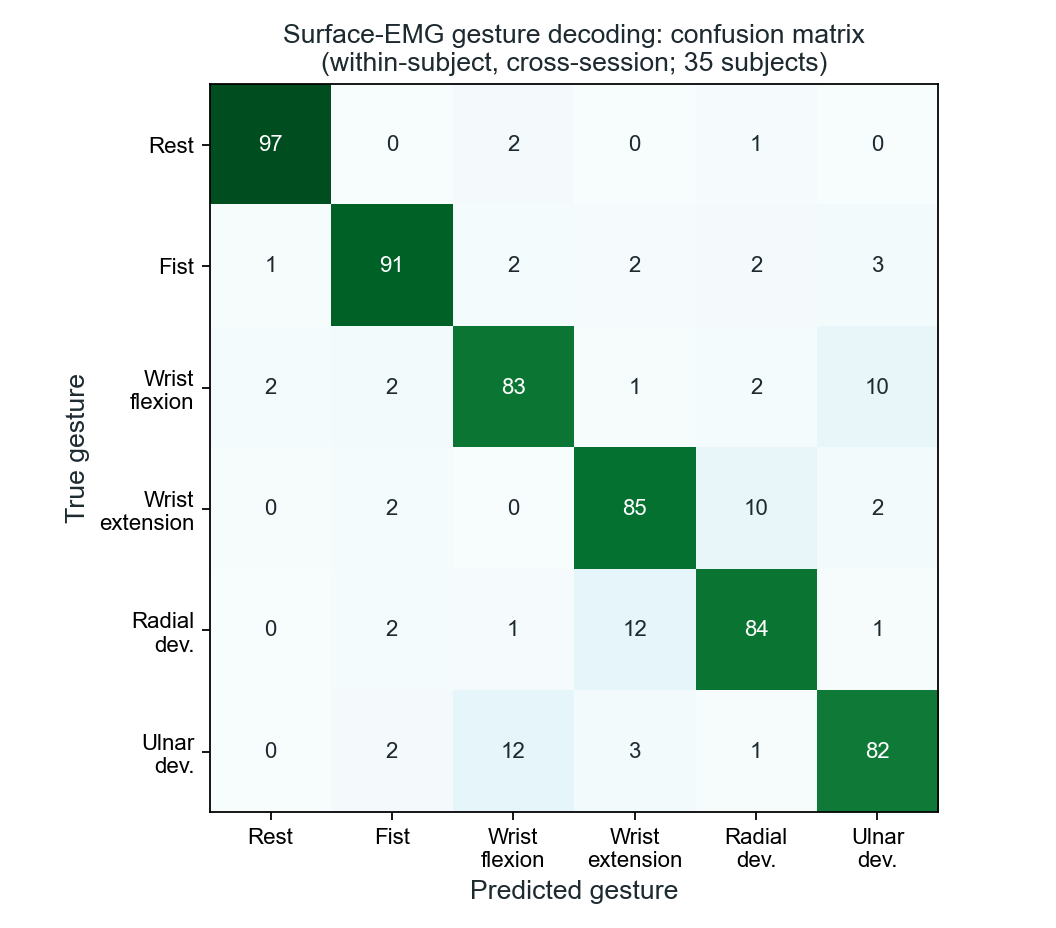
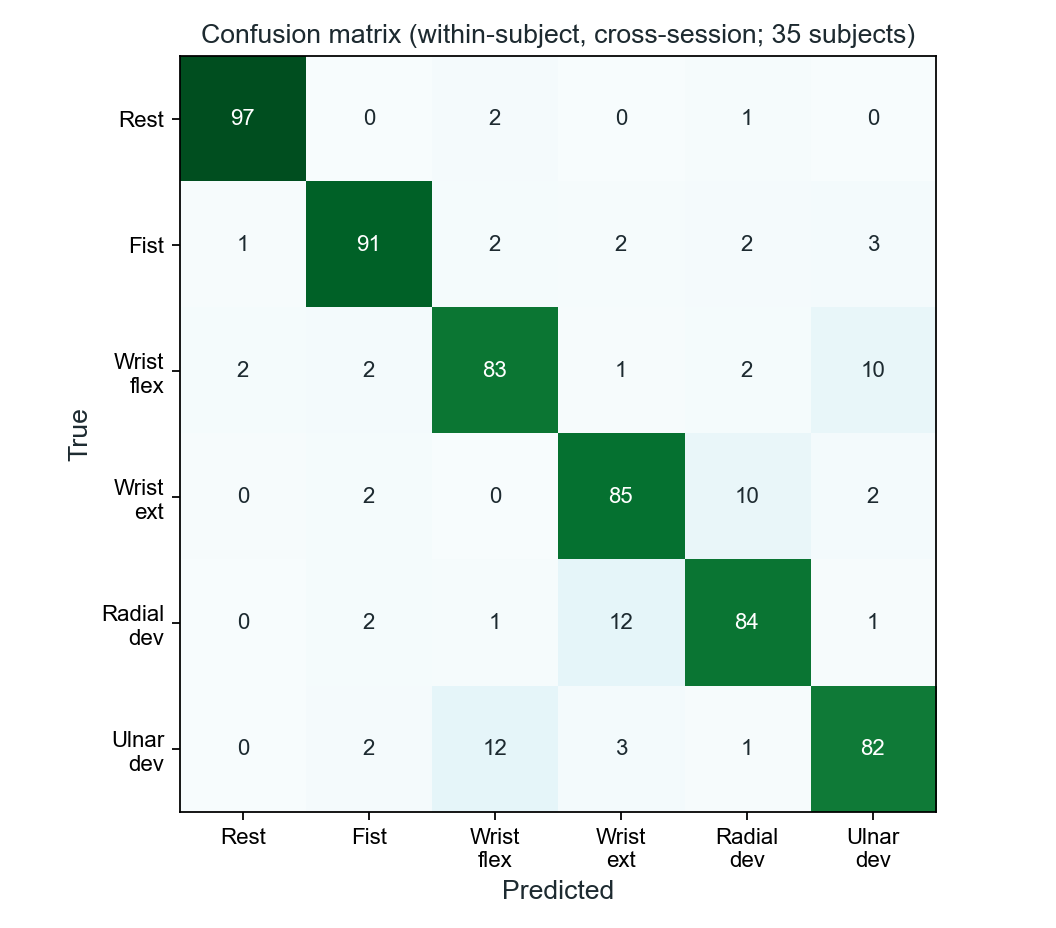
Add research-grade evaluation (LDA baseline, cross-subject generalization, latency-accuracy sweep, temporal smoothing); README polish

diff --git a/emg_research.py b/emg_research.py
@@ -1,0 +1,178 @@
+import os, glob, json, time, numpy as np
+from sklearn.ensemble import RandomForestClassifier
+from sklearn.discriminant_analysis import LinearDiscriminantAnalysis
+from sklearn.metrics import accuracy_score, confusion_matrix, precision_recall_fscore_support
+import matplotlib; matplotlib.use("Agg")
+import matplotlib.pyplot as plt
+from matplotlib import font_manager
+try:
+    font_manager.fontManager.addfont(r"C:\Windows\Fonts\arial.ttf"); plt.rcParams["font.family"] = "Arial"
+except Exception: pass
+
+ROOT = r"C:\Users\afric\emg_decoding\data\EMG_data_for_gestures-master"
+OUT  = r"C:\Users\afric\emg_decoding"
+INK, TEAL, AMBER, GREY = "#1d2a30", "#0d7a6f", "#c98a0d", "#9aa3a8"
+CLASSES = [1, 2, 3, 4, 5, 6]
+NAMES = {1: "Rest", 2: "Fist", 3: "Wrist\nflex", 4: "Wrist\next", 5: "Radial\ndev", 6: "Ulnar\ndev"}
+
+def feats(win):
+    f = []
+    for c in range(win.shape[1]):
+        x = win[:, c]; d = np.diff(x)
+        f += [np.mean(np.abs(x)), np.sqrt(np.mean(x**2)), np.sum(np.abs(d)),
+              int(np.sum(x[:-1]*x[1:] < 0)), int(np.sum(d[:-1]*d[1:] < 0))]
+    return f
+
+def load(path):
+    try: data = np.loadtxt(path, skiprows=1)
+    except Exception: return None
+    if data.ndim != 2 or data.shape[1] < 10: return None
+    return data
+
+def windows(data, W, S):
+    ch, cls = data[:, 1:9], data[:, 9].astype(int)
+    X, y, seg = [], [], []; i, n, sid = 0, len(cls), 0
+    while i < n:
+        c, j = cls[i], i
+        while j < n and cls[j] == c: j += 1
+        if c in CLASSES and (j - i) >= W:
+            s = ch[i:j]
+            for k in range(0, len(s) - W + 1, S):
+                X.append(feats(s[k:k+W])); y.append(c); seg.append(sid)
+            sid += 1
+        i = j
+    return np.array(X, float), np.array(y, int), np.array(seg, int)
+
+subjects = sorted(d for d in os.listdir(ROOT) if os.path.isdir(os.path.join(ROOT, d)))
+FS = 200.0
+print(f"sampling rate {FS:.0f} Hz; subjects={len(subjects)}")
+W, S = 40, 20
+
+res = {"RF": [], "LDA": []}; cm_true, cm_pred = [], []; sm_base, sm_smooth = [], []
+t0 = time.time()
+for sub in subjects:
+    fs = sorted(glob.glob(os.path.join(ROOT, sub, "*.txt")))
+    if len(fs) < 2: continue
+    d1, d2 = load(fs[0]), load(fs[1])
+    if d1 is None or d2 is None: continue
+    Xtr, ytr, _ = windows(d1, W, S); Xte, yte, seg = windows(d2, W, S)
+    if len(set(ytr)) < 2 or len(Xte) == 0: continue
+    for name, clf in [("RF", RandomForestClassifier(n_estimators=200, n_jobs=-1, random_state=42)),
+                      ("LDA", LinearDiscriminantAnalysis())]:
+        clf.fit(Xtr, ytr); pred = clf.predict(Xte)
+        res[name].append(accuracy_score(yte, pred))
+        if name == "RF":
+            cm_true += list(yte); cm_pred += list(pred)
+            sm = pred.copy()
+            for sid in np.unique(seg):
+                idx = np.where(seg == sid)[0]; p = pred[idx]
+                for a in range(len(p)):
+                    lo, hi = max(0, a-2), min(len(p), a+3)
+                    v, c = np.unique(p[lo:hi], return_counts=True); sm[idx[a]] = v[np.argmax(c)]
+            sm_base.append(accuracy_score(yte, pred)); sm_smooth.append(accuracy_score(yte, sm))
+rf = np.array(res["RF"]); lda = np.array(res["LDA"])
+print(f"[1] within-subject done {time.time()-t0:.0f}s  RF={rf.mean()*100:.1f}%  LDA={lda.mean()*100:.1f}%")
+
+def pool(subs):
+    X, y = [], []
+    for sub in subs:
+        for f in sorted(glob.glob(os.path.join(ROOT, sub, "*.txt"))):
+            d = load(f)
+            if d is None: continue
+            Xi, yi, _ = windows(d, W, S)
+            if len(Xi): X.append(Xi); y.append(yi)
+    return np.vstack(X), np.concatenate(y)
+cut = (len(subjects) * 2) // 3
+tr_s, te_s = subjects[:cut], subjects[cut:]
+Xtr, ytr = pool(tr_s); Xte, yte = pool(te_s)
+clf = RandomForestClassifier(n_estimators=150, n_jobs=-1, random_state=42); clf.fit(Xtr, ytr)
+xsub = accuracy_score(yte, clf.predict(Xte))
+print(f"[2] cross-subject train={len(tr_s)} test={len(te_s)} subj: {xsub*100:.1f}%")
+
+sweep_W = [20, 40, 60, 80, 120, 160, 200]; sweep_subj = subjects[:10]; sweep = []
+for w in sweep_W:
+    a = []
+    for sub in sweep_subj:
+        fs = sorted(glob.glob(os.path.join(ROOT, sub, "*.txt")))
+        if len(fs) < 2: continue
+        d1, d2 = load(fs[0]), load(fs[1])
+        Xtr, ytr, _ = windows(d1, w, max(1, w//2)); Xte, yte, _ = windows(d2, w, max(1, w//2))
+        if len(set(ytr)) < 2 or len(Xte) == 0: continue
+        clf = RandomForestClassifier(n_estimators=120, n_jobs=-1, random_state=42); clf.fit(Xtr, ytr)
+        a.append(accuracy_score(yte, clf.predict(Xte)))
+    sweep.append(np.mean(a)); print(f"    win {w} ({w/FS*1000:.0f} ms): {np.mean(a)*100:.1f}%")
+
+P, R, F, _ = precision_recall_fscore_support(cm_true, cm_pred, labels=CLASSES, zero_division=0)
+
+summary = {
+    "within_RF_mean": float(rf.mean()*100), "within_RF_std": float(rf.std()*100), "n": int(len(rf)),
+    "within_LDA_mean": float(lda.mean()*100), "cross_subject": float(xsub*100),
+    "smooth_base": float(np.mean(sm_base)*100), "smooth_after": float(np.mean(sm_smooth)*100),
+    "sweep_ms": [round(w/FS*1000) for w in sweep_W], "sweep_acc": [float(a*100) for a in sweep],
+    "fs": round(FS), "per_gesture_F1": {NAMES[c].replace(chr(10), " "): float(f*100) for c, f in zip(CLASSES, F)},
+}
+json.dump(summary, open(os.path.join(OUT, "emg_results.json"), "w"), indent=2)
+print("\n==================== SUMMARY ====================")
+print(f"Within-subject (cross-session)  RF : {rf.mean()*100:.1f}% +/- {rf.std()*100:.1f}%  (n={len(rf)})")
+print(f"Within-subject (cross-session)  LDA: {lda.mean()*100:.1f}%")
+print(f"Cross-subject (leave-subjects-out) : {xsub*100:.1f}%")
+print(f"Temporal smoothing                 : {np.mean(sm_base)*100:.1f}% -> {np.mean(sm_smooth)*100:.1f}%")
+print(f"Chance (6 classes)                 : {100/6:.1f}%")
+for c, p, r, f in zip(CLASSES, P, R, F):
+    print(f"   {NAMES[c].replace(chr(10),' '):12s} P={p*100:4.0f} R={r*100:4.0f} F1={f*100:4.0f}")
+
+cm = confusion_matrix(cm_true, cm_pred, labels=CLASSES).astype(float)
+cmn = cm / cm.sum(axis=1, keepdims=True)
+labels = [NAMES[c] for c in CLASSES]
+fig, ax = plt.subplots(figsize=(6.6, 5.8), dpi=160); fig.patch.set_facecolor("white")
+ax.imshow(cmn, cmap="BuGn", vmin=0, vmax=1)
+ax.set_xticks(range(6)); ax.set_yticks(range(6))
+ax.set_xticklabels(labels, fontsize=10); ax.set_yticklabels(labels, fontsize=10)
+ax.set_xlabel("Predicted", fontsize=12, color=INK); ax.set_ylabel("True", fontsize=12, color=INK)
+ax.set_title(f"Confusion matrix (within-subject, cross-session; {len(rf)} subjects)", fontsize=12, color=INK)
+for i in range(6):
+    for j in range(6):
+        ax.text(j, i, f"{cmn[i,j]*100:.0f}", ha="center", va="center",
+                color="white" if cmn[i, j] > 0.5 else INK, fontsize=10)
+fig.tight_layout(); fig.savefig(os.path.join(OUT, "emg_confusion_matrix.png"), facecolor="white"); plt.close(fig)
+
+fig, ax = plt.subplots(2, 2, figsize=(12, 8.4), dpi=160); fig.patch.set_facecolor("white")
+a = ax[0, 0]
+bars = a.bar([0, 1, 2], [rf.mean()*100, lda.mean()*100, xsub*100], color=[TEAL, GREY, AMBER], edgecolor="white", width=0.6)
+a.errorbar([0, 1], [rf.mean()*100, lda.mean()*100], yerr=[rf.std()*100, lda.std()*100], fmt="none", ecolor=INK, capsize=4)
+a.axhline(100/6, ls=":", color="#888", lw=1.2); a.text(2.4, 100/6+1, "chance", color="#888", fontsize=9, ha="right")
+a.set_xticks([0, 1, 2]); a.set_xticklabels(["RF\n(within-subj)", "LDA\n(within-subj)", "RF\n(cross-subj)"], fontsize=10)
+a.set_ylabel("Accuracy (%)", fontsize=11, color=INK); a.set_ylim(0, 100)
+a.set_title("Classifier comparison & generalization", fontsize=12, color=INK)
+for b, v in zip(bars, [rf.mean()*100, lda.mean()*100, xsub*100]): a.text(b.get_x()+b.get_width()/2, v+1.5, f"{v:.0f}%", ha="center", fontsize=10, color=INK)
+a.spines[["top", "right"]].set_visible(False)
+
+a = ax[0, 1]
+ms = [w/FS*1000 for w in sweep_W]
+a.plot(ms, [s*100 for s in sweep], "-o", color=TEAL, lw=2.2, ms=6)
+a.set_xlabel("Window length / control latency (ms)", fontsize=11, color=INK)
+a.set_ylabel("Accuracy (%)", fontsize=11, color=INK)
+a.set_title("Latency vs accuracy tradeoff", fontsize=12, color=INK)
+a.axvspan(0, 300, color=TEAL, alpha=0.06); a.text(150, a.get_ylim()[0]+1, "real-time zone\n(<300 ms)", ha="center", fontsize=9, color=TEAL)
+a.spines[["top", "right"]].set_visible(False)
+
+a = ax[1, 0]
+a.bar(range(6), F*100, color=TEAL, edgecolor="white")
+a.set_xticks(range(6)); a.set_xticklabels([NAMES[c] for c in CLASSES], fontsize=9)
+a.set_ylabel("F1 score (%)", fontsize=11, color=INK); a.set_ylim(0, 100)
+a.set_title("Per-gesture F1 (within-subject)", fontsize=12, color=INK)
+for i, v in enumerate(F*100): a.text(i, v+1.5, f"{v:.0f}", ha="center", fontsize=9, color=INK)
+a.spines[["top", "right"]].set_visible(False)
+
+a = ax[1, 1]
+b = a.bar([0, 1], [np.mean(sm_base)*100, np.mean(sm_smooth)*100], color=[GREY, TEAL], edgecolor="white", width=0.6)
+a.set_xticks([0, 1]); a.set_xticklabels(["Raw\nper-window", "+ temporal\nmajority vote"], fontsize=10)
+a.set_ylabel("Accuracy (%)", fontsize=11, color=INK); a.set_ylim(0, 100)
+a.set_title("Temporal smoothing (real-time post-processing)", fontsize=12, color=INK)
+for bb, v in zip(b, [np.mean(sm_base)*100, np.mean(sm_smooth)*100]): a.text(bb.get_x()+bb.get_width()/2, v+1.5, f"{v:.1f}%", ha="center", fontsize=10, color=INK)
+a.spines[["top", "right"]].set_visible(False)
+
+fig.suptitle("Surface-EMG gesture decoding — evaluation  (Lobov et al. 2018, 8-ch MYO, 6 gestures)", fontsize=13, color=INK, y=0.99)
+fig.tight_layout(rect=[0, 0, 1, 0.97])
+fig.savefig(os.path.join(OUT, "emg_results_panel.png"), facecolor="white"); plt.close(fig)
+print("\nsaved: emg_results_panel.png, emg_confusion_matrix.png, emg_results.json")

diff --git a/README.md b/README.md
@@ -1,28 +1,53 @@
 # Surface-EMG Hand-Gesture Decoding
 
 Decoding six hand gestures from 8-channel surface electromyography (a MYO armband)
-using classic time-domain features and a Random Forest.
+with classic time-domain features and a Random Forest, evaluated the way a
+myoelectric-control study should be: cross-session, cross-subject, and with the
+latency–accuracy tradeoff that matters for real-time prosthetic control.
 
-**Result: 86.7% ± 6.4% mean within-subject accuracy** across 35 subjects
-(6 gestures, chance = 16.7%), under an honest cross-session protocol: train on each
-subject's session 1, test on session 2, with no window overlap between train and test.
+**Headline:** 86.7% ± 6.4% mean within-subject accuracy across 35 subjects, and
+**75.4% on held-out subjects the model never saw** (6 gestures, chance = 16.7%).
 
-![Confusion matrix](emg_confusion_matrix.png)
-![Accuracy across subjects](emg_accuracy_hist.png)
+![Evaluation](emg_results_panel.png)
 
-Confusions fall predominantly between anatomically adjacent movements
-(wrist flexion / ulnar deviation, wrist extension / radial deviation), as expected.
+## What's evaluated
+
+- **Within-subject, cross-session: 86.7% ± 6.4%.** Train on each subject's session 1,
+  test on session 2, no window overlap between train and test. This is the "calibrated user" number.
+- **Classifier comparison: RF 86.7% vs LDA 83.3%.** Linear Discriminant Analysis is the
+  classic myoelectric baseline (Hudgins et al.); the Random Forest earns a ~3-point edge.
+- **Cross-subject generalization: 75.4%.** Train on 24 subjects, test on 12 unseen ones.
+  The drop from 87% to 75% is the real, expected cost of anatomy, electrode placement, and
+  skin impedance varying person to person, and measuring it honestly is the point.
+- **Latency vs accuracy.** Accuracy rises from ~81% at a 100 ms window to ~92% at 1 s.
+  Inside the real-time control zone (<300 ms) the decoder already holds ~87 to 89%.
+- **Temporal smoothing: 86.7% to 90.7%.** A short majority vote over consecutive windows,
+  the post-processing a real controller uses for stable output.
+
+Per-gesture, rest and fist are easiest (F1 97 / 91); the confusions fall between
+anatomically adjacent movements (wrist flexion / ulnar deviation, wrist extension /
+radial deviation), exactly as expected from the underlying muscle anatomy.
 
 ## Method
-- **Data:** Lobov et al. (2018), "Latent Factors Limiting the Performance of sEMG-Interfaces," *Sensors* 18(4):1122 (UCI ML Repository #481). MYO Thalmic bracelet, 8 channels, 36 subjects, 2 sessions each, 6 gestures: rest, fist, wrist flexion, wrist extension, radial deviation, ulnar deviation.
-- **Windowing:** 40-sample windows (~200 ms) at 50% overlap, taken within contiguous single-gesture segments.
-- **Features (per channel):** mean absolute value, RMS, waveform length, zero crossings, slope-sign changes (the Hudgins time-domain set) — 40 features total.
-- **Model:** Random Forest (200 trees).
-- **Evaluation:** per subject, fit on session 1 and test on session 2, then averaged across subjects.
+
+- **Data:** Lobov et al. (2018), "Latent Factors Limiting the Performance of sEMG-Interfaces,"
+  *Sensors* 18(4):1122 (UCI ML Repository #481). MYO Thalmic bracelet, 8 channels @ 200 Hz,
+  36 subjects, 2 sessions each, 6 gestures: rest, fist, wrist flexion, wrist extension,
+  radial deviation, ulnar deviation.
+- **Windowing:** 40-sample (~200 ms) windows at 50% overlap, taken within contiguous
+  single-gesture segments so no window straddles a label boundary.
+- **Features (per channel):** mean absolute value, RMS, waveform length, zero crossings,
+  slope-sign changes (the Hudgins time-domain set), 40 features total. Chosen because they
+  are cheap enough to compute in real time on embedded hardware.
+- **Models:** Random Forest (200 trees) and an LDA baseline.
+- **Protocols:** within-subject cross-session; leave-subjects-out cross-subject;
+  a window-length sweep (20–200 samples); and a 5-window temporal majority vote.
 
 ## Run it
-1. Download the dataset (UCI ML Repository #481) so the per-subject folders sit under `data/EMG_data_for_gestures-master/`.
+
+1. Download the dataset (UCI ML Repository #481) into `data/EMG_data_for_gestures-master/`.
 2. `pip install numpy scikit-learn matplotlib`
-3. `python emg_decode.py`
+3. `python emg_decode.py` for the headline within-subject result, or
+   `python emg_research.py` for the full evaluation (comparison, cross-subject, latency, smoothing).
 
 Author: Santiago Benavides · https://alma26x.github.io/